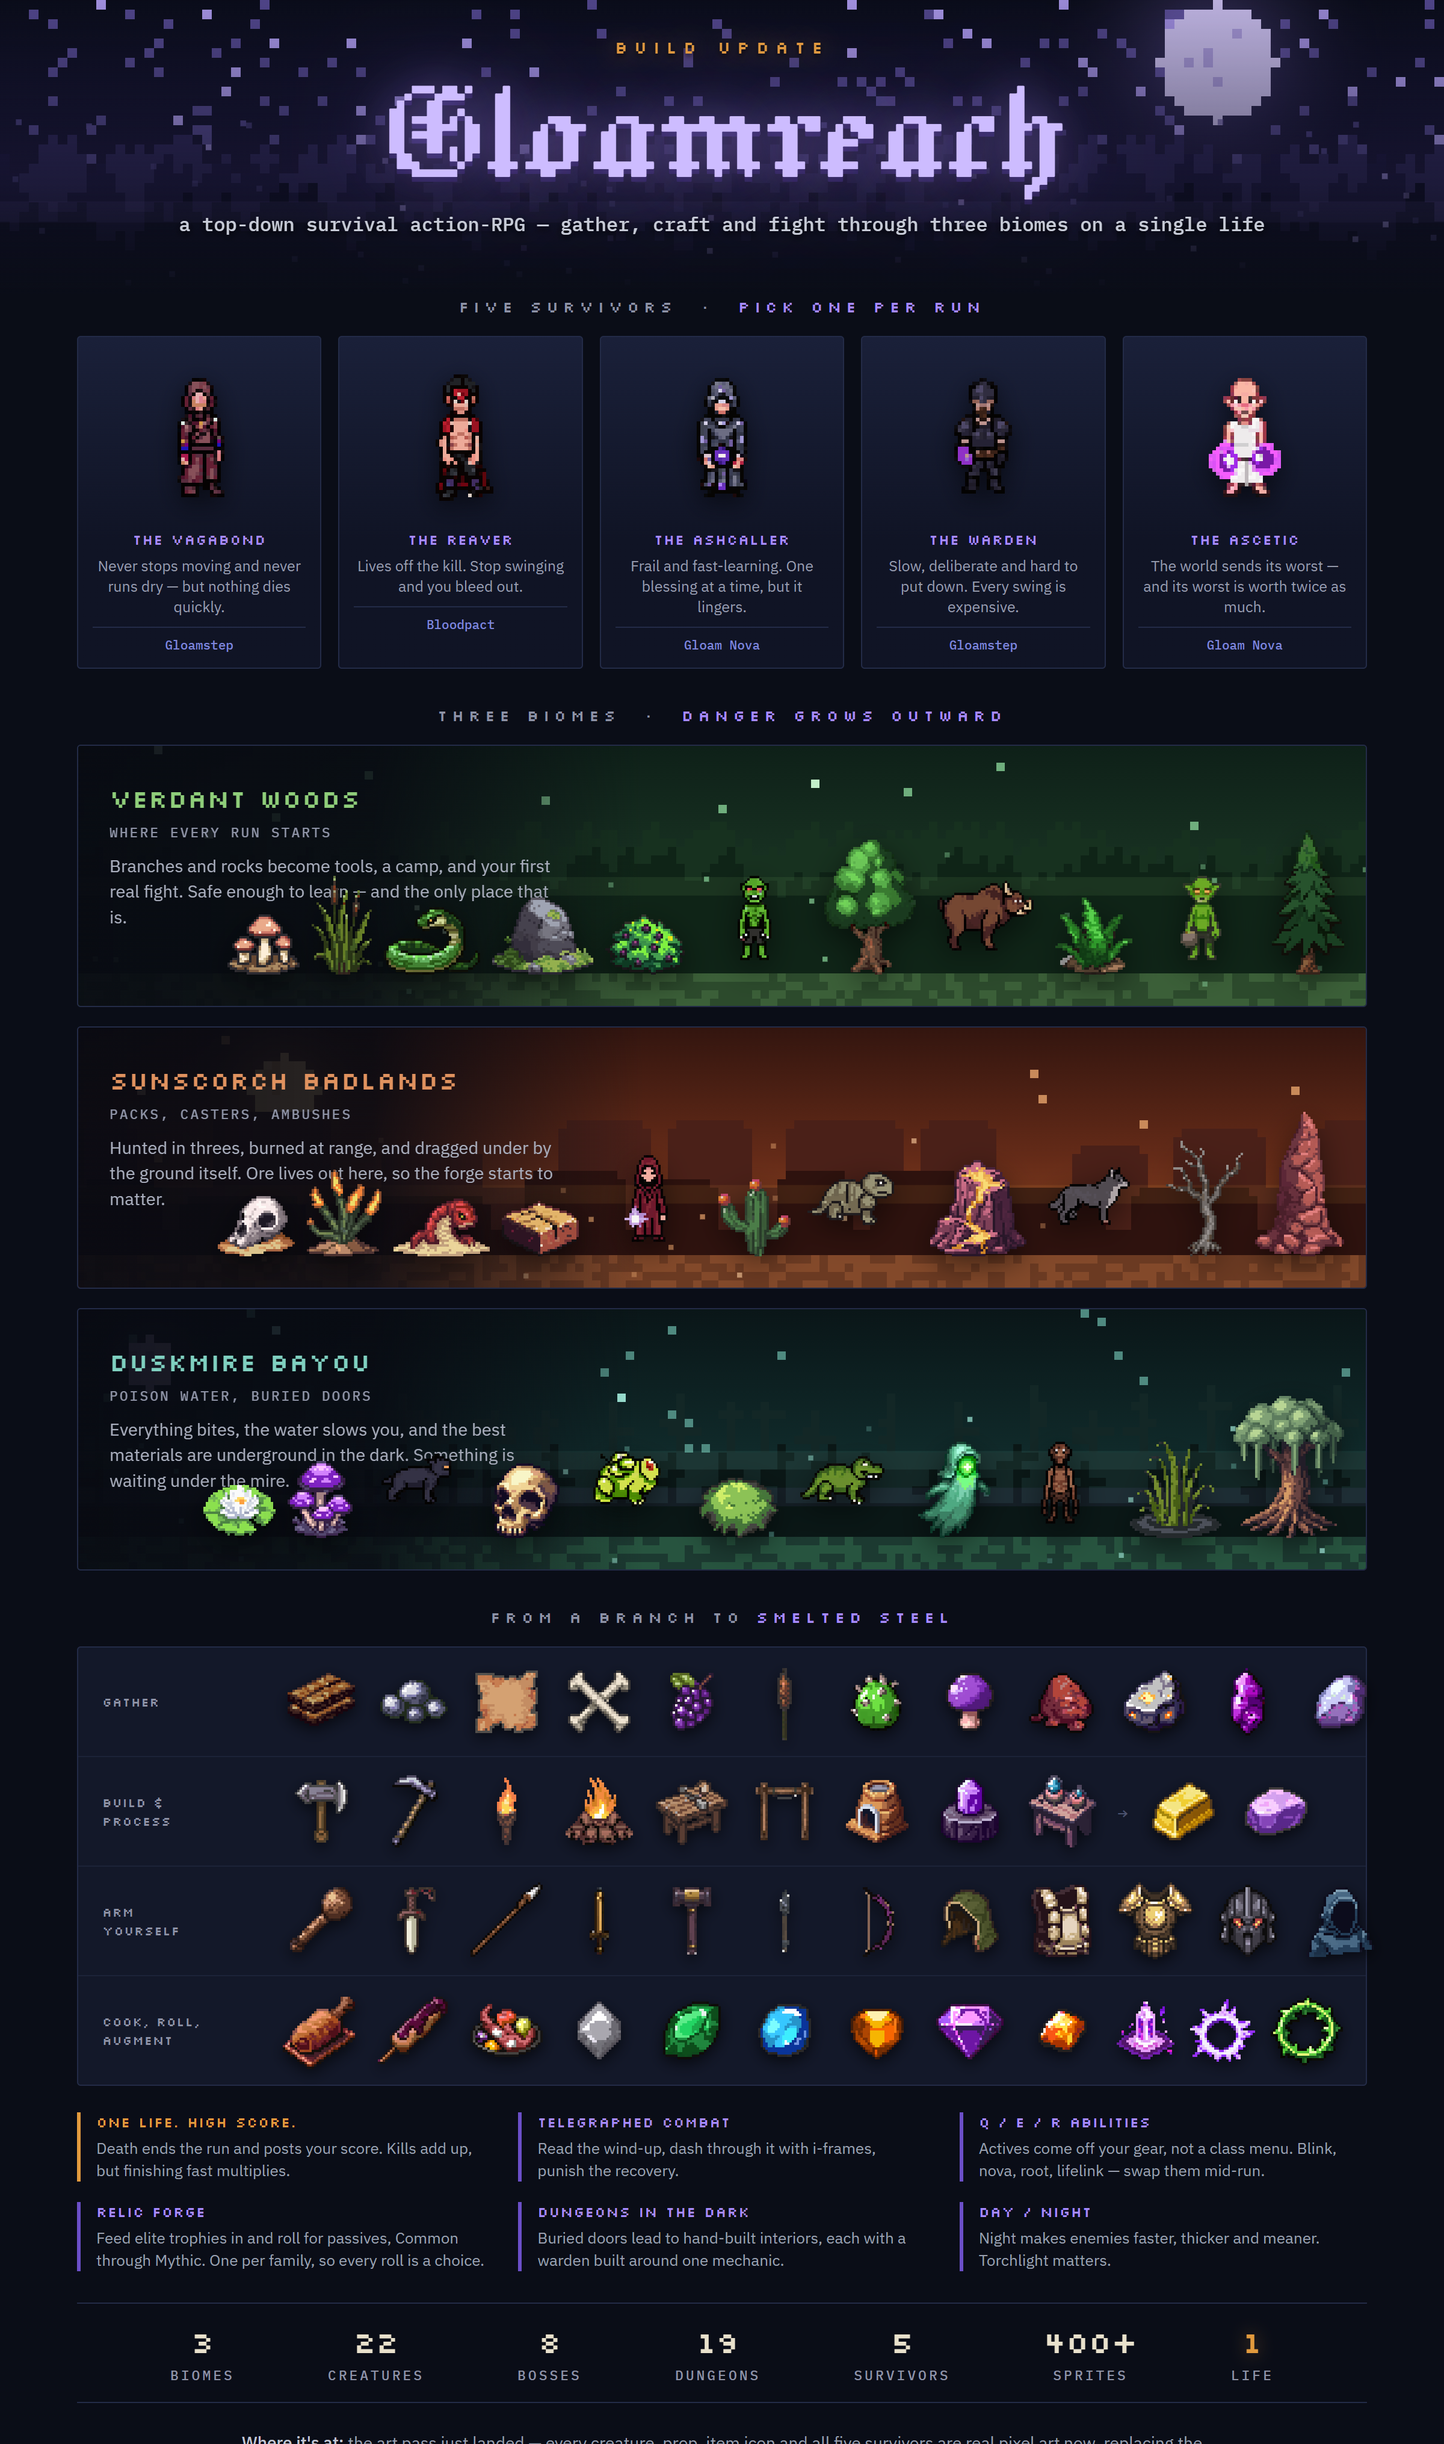
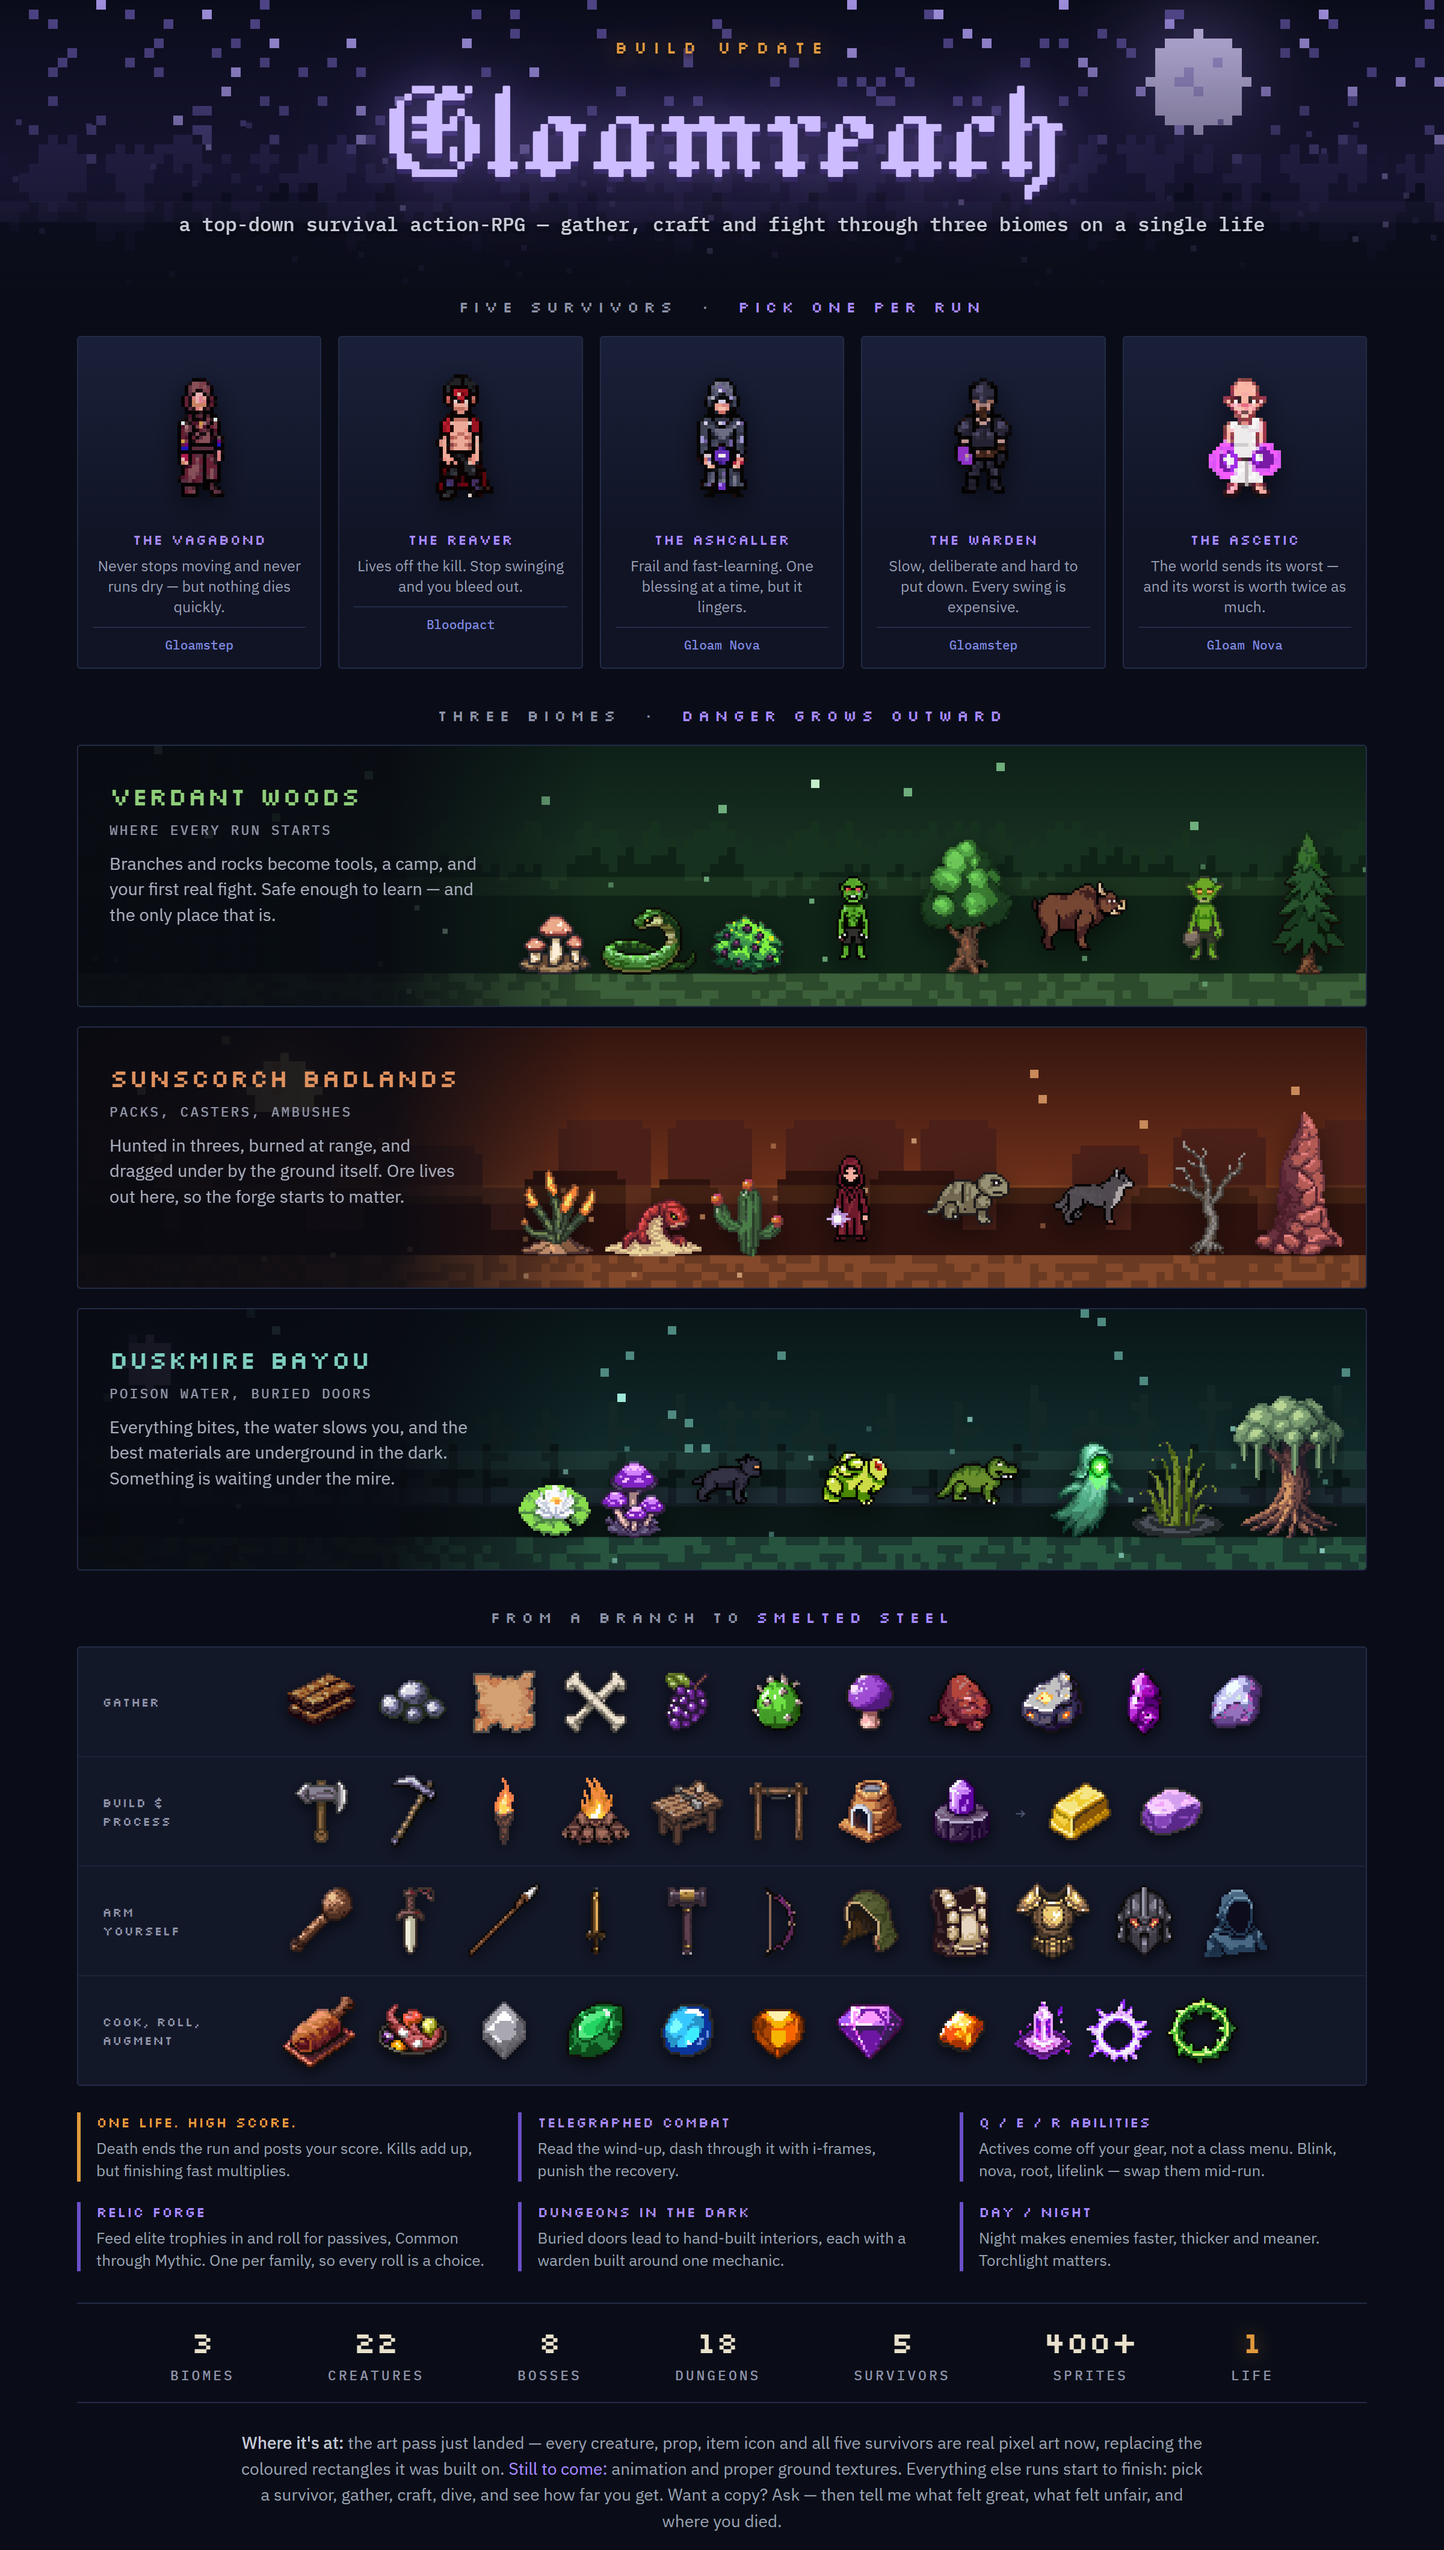
Animate the last of the roster: 20 of 22 creatures
Adds blighttoad, murkling, fenlurker, sanguinarch and corpselight —
96 animations across the roster, every one matching its static sprite's
canvas so nothing pops on the first step.

Template choice follows the creature, not a rule: cat has no attack, so
the toad's is `jump` (a lunge) and the murkling's is `angry`; bear and
lion have real attacks; casters use `fireball`.

Snake and Sandmaw are deliberately still static — a legless serpent and
a burrowing worm fit neither the humanoid nor the quadruped skeleton,
and both are ambushers whose whole read is stillness (the snake hides in
grass until it strikes; the sandmaw spends most of its life submerged at
alpha 0.18, animated by its own surface/erupt tweens).

diff --git a/promo/gloamreach-build-update.html b/promo/gloamreach-build-update.html
@@ -304,7 +304,7 @@
     <div class="stat"><div class="n">3</div><div class="t">BIOMES</div></div>
     <div class="stat"><div class="n">22</div><div class="t">CREATURES</div></div>
     <div class="stat"><div class="n">8</div><div class="t">BOSSES</div></div>
-    <div class="stat"><div class="n">19</div><div class="t">DUNGEONS</div></div>
+    <div class="stat"><div class="n">18</div><div class="t">DUNGEONS</div></div>
     <div class="stat"><div class="n">5</div><div class="t">SURVIVORS</div></div>
     <div class="stat"><div class="n">400+</div><div class="t">SPRITES</div></div>
     <div class="stat"><div class="n em">1</div><div class="t">LIFE</div></div>
@@ -345,19 +345,16 @@ function diorama(id, list) {
   });
 }
 diorama("dio1", [
-  ["decor_mushrooms", 2], ["cattail", 2], ["snake", 2], ["boulder", 2],
-  ["blackberry_bush", 2], ["gremling_weak", 2], ["tree", 2], ["boar", 2],
-  ["decor_fern", 2], ["gremlin", 2], ["tree_v2", 2],
+  ["decor_mushrooms", 2], ["snake", 2], ["blackberry_bush", 2], ["gremling_weak", 2],
+  ["tree", 2], ["boar", 2], ["gremlin", 2], ["tree_v2", 2],
 ]);
 diorama("dio2", [
-  ["decor_skull", 2], ["emberbloom", 2], ["sandmaw", 2], ["badlands_boulder", 2],
-  ["hexling", 2], ["sunfruit_cactus", 2], ["cragscale", 2], ["sunscorch_ore_node", 2],
-  ["duskrunner", 2], ["badlands_deadtree", 2], ["badlands_mesa_spire", 2],
+  ["emberbloom", 2], ["sandmaw", 2], ["sunfruit_cactus", 2], ["hexling", 2],
+  ["cragscale", 2], ["duskrunner", 2], ["badlands_deadtree", 2], ["badlands_mesa_spire", 2],
 ]);
 diorama("dio3", [
-  ["water_lily", 2], ["gloamcap", 2], ["murkling", 2], ["bayou_bones", 2],
-  ["blighttoad", 2], ["swamp_moss", 2], ["mirejaw", 2], ["corpselight", 2],
-  ["mosswretch", 2], ["bayou_reeds", 2], ["bayou_cypress", 2],
+  ["water_lily", 2], ["gloamcap", 2], ["murkling", 2], ["blighttoad", 2],
+  ["mirejaw", 2], ["corpselight", 2], ["bayou_reeds", 2], ["bayou_cypress", 2],
 ]);
 
 /* ---------- gear rows: real item icons ---------- */
@@ -376,21 +373,21 @@ function row(id, list) {
   });
 }
 row("g-gather", [
-  "wood", "stone", "leather", "bones", "blackberry", "cattail", "sunfruit", "gloamcap",
+  "wood", "stone", "leather", "bones", "blackberry", "sunfruit", "gloamcap",
   "clay", "sunscorch_ore", "gloam_shard", "moonsilver",
 ]);
 row("g-build", [
   "stone_axe", "stone_pickaxe", "torch", "campfire", "workbench", "drying_rack",
-  "smelter", "relic_forge", "jewelry_station", ">", "sunsteel_ingot", "gloamsteel_ingot",
+  "smelter", "relic_forge", ">", "sunsteel_ingot", "gloamsteel_ingot",
 ]);
 row("g-arms", [
   "wood_club", "bone_knife", "primal_spear", "sunsteel_sword", "sunsteel_warhammer",
-  "embersteel_pike", "gloamsteel_warbow", "gremlin_cap", "duskhide_vest",
-  "sunsteel_cuirass", "embersteel_helm", "mirehide_hood",
+  "gloamsteel_warbow", "gremlin_cap", "duskhide_vest", "sunsteel_cuirass",
+  "embersteel_helm", "mirehide_hood",
 ]);
 row("g-relic", [
-  "cooked_boar_meat", "bramble_boar_skewer", "sunscorch_feast", "relic_common",
-  "relic_uncommon", "relic_rare", "relic_mythic", "gem_gloam", "gem_ember",
+  "cooked_boar_meat", "sunscorch_feast", "relic_common", "relic_uncommon",
+  "relic_rare", "relic_mythic", "gem_gloam", "gem_ember",
   "ability_blink", "ability_nova", "ability_snare",
 ]);
 
@@ -486,7 +483,7 @@ scene("key", {
   grid: 16, seed: 71,
   sky: [[0, "#0a0c1a"], [0.42, "#171436"], [0.74, "#2b1e52"], [1, "#3a2a63"]],
   stars: 150, mote: "#5a4d9a", moteBright: "#b9a5ff",
-  orb: [126, 6, 6, "#d9ccff", "rgba(167,139,255,0.30)"], orbCrater: "#b3a2e8",
+  orb: [124, 8, 5, "#d9ccff", "rgba(167,139,255,0.30)"], orbCrater: "#b3a2e8",
   layers: [
     { kind: "trees", base: 0.72, color: "#332a63", min: 4, vary: 5 },
     { kind: "trees", base: 0.86, color: "#211a49", min: 5, vary: 6 },
